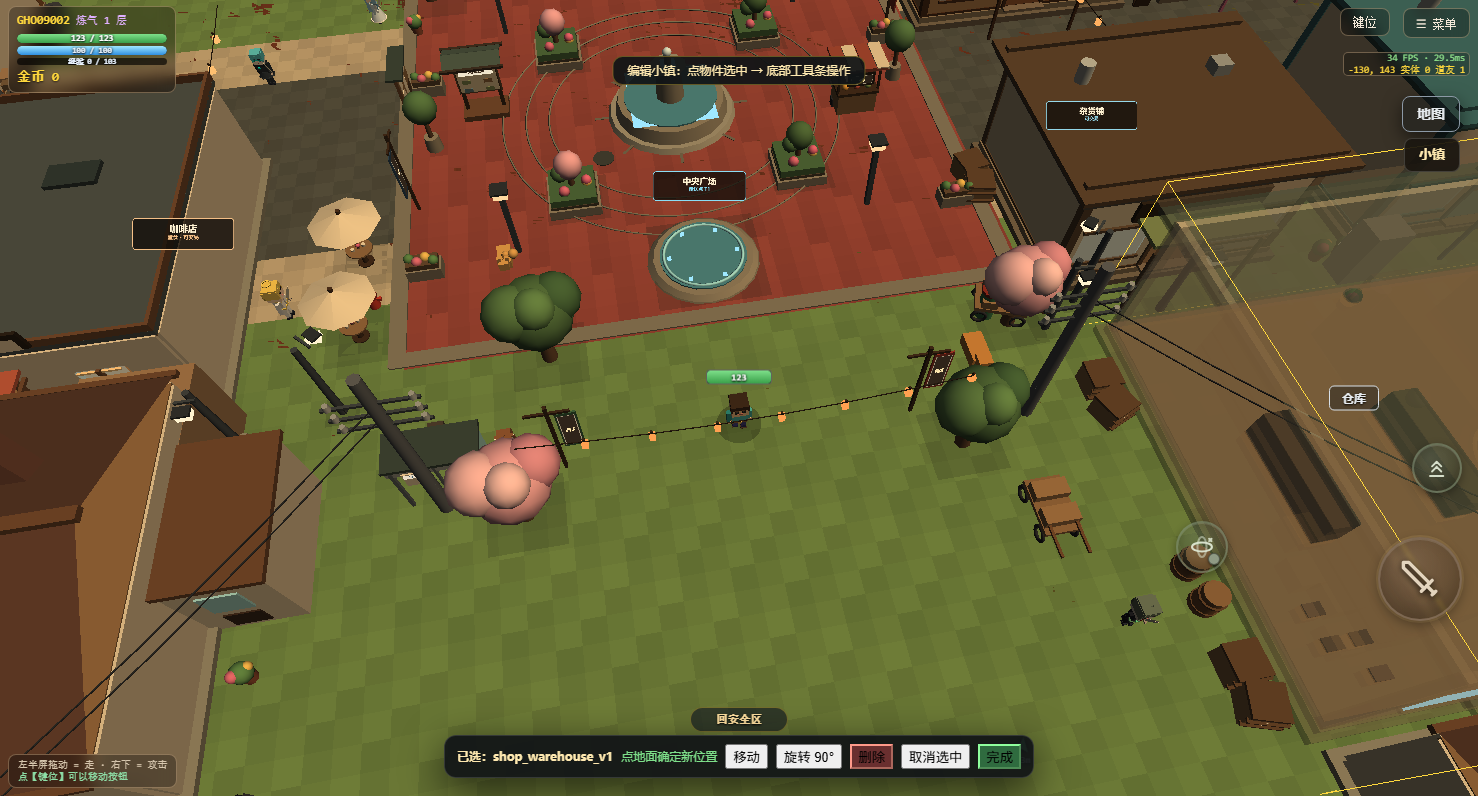
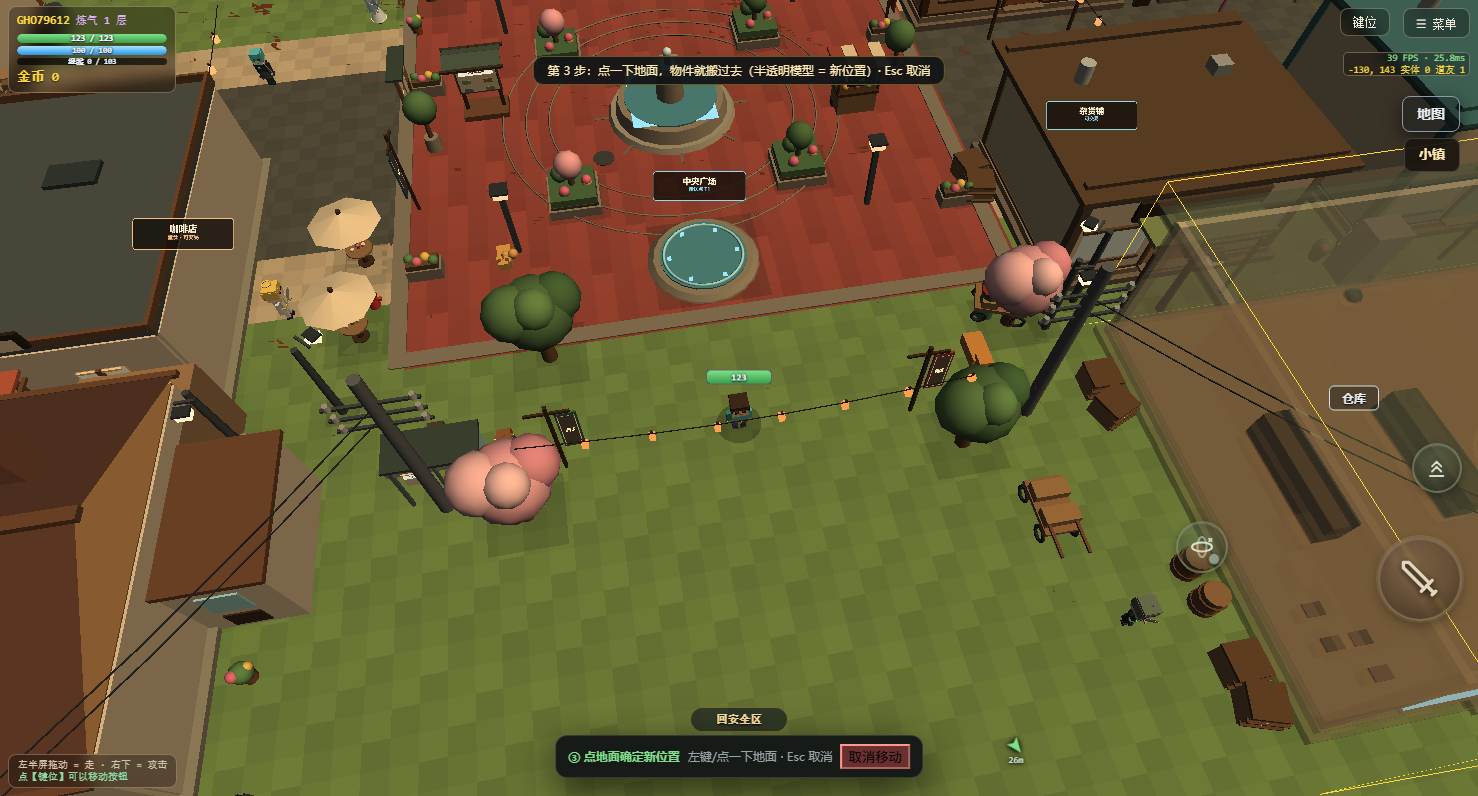
editing now says what to do, step by step

Changed region(s): [[0.2801, 0.9045, 0.7158, 1.0], [0.3424, 0.0603, 0.6536, 0.1206], [0.8714, 0.8744, 1.0, 1.0]]

diff --git a/web/platform/place.js b/web/platform/place.js
@@ -331,18 +331,32 @@
       EDIT.box = null;
     }
   }
+  function editHintText() {
+    if (!EDIT.hint) { return; }
+    var txt;
+    if (EDIT.moving) {
+      txt = '第 3 步：点一下地面，物件就搬过去（半透明模型 = 新位置）· Esc 取消';
+    } else if (EDIT.id != null) {
+      txt = '第 2 步：点底部「移动」，然后点地面 · 也可以直接「旋转 90°」或「删除」';
+    } else {
+      txt = '第 1 步：点场景里的建筑 / 家具（会变黄框）· Esc 退出编辑';
+    }
+    EDIT.hint.textContent = txt;
+  }
+
   function editSelect(id) {
     editClear();
     EDIT.id = id;
     EDIT.moving = false;
-    if (id == null) { editBarRender(); return; }
+    if (id == null) { editBarRender(); editHintText(); return; }
     var e = P.objs[id];
-    if (!e || !e.mesh) { EDIT.id = null; editBarRender(); return; }
+    if (!e || !e.mesh) { EDIT.id = null; editBarRender(); editHintText(); return; }
     try {
       EDIT.box = new THREE.BoxHelper(e.mesh, 0xffd83d);
       (sceneOf() || W().scene).add(EDIT.box);
     } catch (e1) { EDIT.box = null; }
     editBarRender();
+    editHintText();
   }
   function sceneOf() { return (typeof W().scene !== 'undefined') ? W().scene : null; }
   function editBarRender() {
@@ -366,16 +380,22 @@
     }
     EDIT.bar.style.display = 'flex';
     if (EDIT.id == null) {
-      EDIT.bar.innerHTML = '<b style="color:#ffe9b0">编辑小镇</b>' +
-        '<span style="color:#9aa3a8">点场景里的物件选中 · Esc 退出</span>' +
+      EDIT.bar.innerHTML =
+        '<b style="color:#ffe9b0">① 点场景里的物件</b>' +
+        '<span style="color:#9aa3a8">选中后会变黄框 · Esc 退出</span>' +
         '<button data-e="done" style="background:#2f6b3f;border-color:#7ee08a">完成</button>';
       return;
     }
     var e = P.objs[EDIT.id], o = e && e.data;
     var nm = (o && (o.catalog || o.model)) || ('#' + EDIT.id);
-    EDIT.bar.innerHTML = '<b style="color:#ffe9b0">已选：' + nm + '</b>' +
-      (EDIT.moving ? '<span style="color:#7ee08a">点地面确定新位置</span>' : '') +
-      '<button data-e="move">移动</button>' +
+    if (EDIT.moving) {
+      EDIT.bar.innerHTML = '<b style="color:#7ee08a">③ 点地面确定新位置</b>' +
+        '<span style="color:#9aa3a8">左键/点一下地面 · Esc 取消</span>' +
+        '<button data-e="cancelmove" style="background:#6a2f2f;border-color:#ff9a8a">取消移动</button>';
+      return;
+    }
+    EDIT.bar.innerHTML = '<b style="color:#ffe9b0">② 已选：' + nm + '</b>' +
+      '<button data-e="move" style="background:#2f5f8a;border-color:#9fe8ff">移动（点这里）</button>' +
       '<button data-e="rot">旋转 90°</button>' +
       '<button data-e="del" style="background:#6a2f2f;border-color:#ff9a8a">删除</button>' +
       '<button data-e="unsel">取消选中</button>' +
@@ -384,12 +404,19 @@
   function editAct(a) {
     if (a === 'done') { editExit(); return; }
     if (a === 'unsel') { editSelect(null); return; }
+    if (a === 'cancelmove') {
+      EDIT.moving = false;
+      editMoveGhostStop(true);
+      editBarRender();
+      return;
+    }
     if (EDIT.id == null) { return; }
     if (a === 'move') {
       /* ★ 2026-10-22：移动时给一个半透明预览 ✗ 不然看不见会挪到哪 ✓ */
       editMoveGhostStart();
       EDIT.moving = true;
       editBarRender();
+      editHintText();
       return;
     }
     if (a === 'rot') {
@@ -455,7 +482,7 @@
       document.body.appendChild(EDIT.hint);
     }
     EDIT.hint.style.display = 'block';
-    EDIT.hint.textContent = '编辑小镇：点物件选中 → 底部工具条操作';
+    editHintText();
     editSelect(null);
   }
   function editExit() {
@@ -498,6 +525,11 @@
     if (id != null) {
       editSelect(id);
       try { e.stopPropagation(); } catch (e2) { }
+      return;
+    }
+    /* 点空地：如果选着东西，就当作「取消选中」（避免误触移动） */
+    if (EDIT.id != null && !EDIT.moving) {
+      editSelect(null);
     }
   }, true);
 

diff --git a/web/index.html b/web/index.html
@@ -1412,7 +1412,7 @@ body[data-theme="glass"] #setBody .slot [style*="color:#fff"]{color:#ffffff!impo
 <div id="sitPrompt">按 E / 点击交互按钮 坐下</div>
 <div id="tpPrompt">按 E / 点击交互按钮 传送</div>
 <button id="mapBtn" title="小镇地图（M）">地图</button>
-<button id="townBtn" title="我的小镇">小镇</button>
+<button id="townBtn" title="小镇：建造 / 移动 / 权限">小镇 · 建造</button>
 <div id="mapPanel"><div id="mapBox"><div id="mapHead"><div id="mapTitle">新手小镇 · 全景地图</div><div id="mapLegend">B 建筑 · H 住宅 · S 商店 · R 道路 · T 传送</div><div id="mapFit"><button class="mapV" onclick="mapFit('town')">小镇</button><button class="mapV" onclick="mapFit('all')">全图</button></div><div id="mapZoom"><button class="mapZ" onclick="mapZoom(-1)">−</button><button class="mapZ" onclick="mapZoom(1)">＋</button></div><div id="mapClose">✕</div></div><div id="mapFilterBar"><button class="mapF on" data-f="all" onclick="mapFilter('all')">全部</button><button class="mapF" data-f="center" onclick="mapFilter('center')">中心</button><button class="mapF" data-f="villa" onclick="mapFilter('villa')">别墅</button><button class="mapF" data-f="yard" onclick="mapFilter('yard')">小院</button><button class="mapF" data-f="flat" onclick="mapFilter('flat')">小楼</button><button class="mapF" data-f="shop" onclick="mapFilter('shop')">商店</button><button class="mapF" data-f="road" onclick="mapFilter('road')">道路</button></div><div id="mapBody"><canvas id="townMapCanvas"></canvas><div id="mapSide"><div class="mapSideTitle">点击地图上的编号</div><div id="mapInfo">点击建筑看名称、编号、坐标。<br><span class="mapHint">手机端默认隐藏密集文字；用筛选和下方编号列表定位。</span></div><button id="mapCopy" onclick="mapCopy()">复制坐标</button><button id="mapListBtn" onclick="mapListToggle()">展开编号列表</button><div class="mapSideTitle">全部编号</div><div id="mapList"></div><div class="mapHint">编号即定位编号；道路带名称。M 键开关地图。</div></div></div></div></div>
 <div id="shopPrompt">按 E / 点击交互按钮 购买</div>
 <div id="orderPrompt">按 E / 点击交互按钮 点单</div>

diff --git a/web/platform/town_ui.js b/web/platform/town_ui.js
@@ -90,10 +90,15 @@
     return h;
   }
   function editHTML(t) {
-    return '<div class="townHint">编辑模式：点场景里的物件选中，然后用底部的工具条' +
-      '「移动 / 旋转 90° / 删除」。Esc 退出。</div>' +
-      '<div class="row"><button onclick="townEdit()">进入编辑模式</button></div>' +
-      '<div class="townHint">删除会连同该建筑自带的家具一起删除，不退款。</div>';
+    return '<div class="townHint"><b>怎么改已经放好的东西：</b></div>' +
+      '<div class="townHint">① 点下面的按钮进入编辑模式；<br>' +
+      '② 点场景里的建筑 / 家具 → 会套一个黄框；<br>' +
+      '③ 点底部工具条的「移动」→ 再点一下地面，就搬过去了<br>' +
+      '　（搬的时候有半透明模型预览；按 Esc 可以取消）</div>' +
+      '<div class="row"><button onclick="townEdit()" style="background:#2f5f8a;border-color:#9fe8ff">' +
+      '进入编辑模式</button></div>' +
+      '<div class="townHint">想换朝向：选中后点「旋转 90°」；不要了：点「删除」' +
+      '（连同建筑自带家具一起删，不退款）。</div>';
   }
   function permHTML(t) {
     if (!t) {

diff --git a/tools/test_place_ghost_ui.py b/tools/test_place_ghost_ui.py
@@ -134,12 +134,26 @@ async def main_async(token):
             # ② 编辑移动预览
             obj_id = await c.ev("return (window.MY_OBJECTS||[]).filter(function(o){"
                                 "return !o.parent;})[0].id;")
-            await c.ev('PlaceMode.startEdit(); PlaceMode.selectById(%d); return 1;' % obj_id)
+            await c.ev('PlaceMode.startEdit(); return 1;')
             await asyncio.sleep(0.3)
+            h1 = await c.ev("return (document.getElementById('editHint')||{}).textContent||'';")
+            print('  hint step1:', h1)
+            assert '第 1 步' in h1, 'guidance step1 missing'
+            await c.ev('PlaceMode.selectById(%d); return 1;' % obj_id)
+            await asyncio.sleep(0.3)
+            h2 = await c.ev("return (document.getElementById('editHint')||{}).textContent||'';")
+            bar2 = await c.ev("return (document.getElementById('editBar')||{}).textContent||'';")
+            print('  hint step2:', h2)
+            assert '第 2 步' in h2 and '移动' in bar2, 'guidance step2 missing'
             await c.ev("var bs=[].slice.call(document.querySelectorAll('#editBar button'));"
                        "var b=bs.filter(function(x){return x.textContent.indexOf('移动')>=0;})[0];"
                        "if(b){b.click();} return 1;")
             await asyncio.sleep(0.4)
+            h3 = await c.ev("return (document.getElementById('editHint')||{}).textContent||'';")
+            print('  hint step3:', h3)
+            assert '第 3 步' in h3, 'guidance step3 missing'
+            cancelBtn = await c.ev("return !!document.querySelector('#editBar button[data-e=\"cancelmove\"]');")
+            assert cancelBtn, 'cancel move button missing'
             st2 = await c.ev('return PlaceMode.previewState();')
             print('  move preview:', st2)
             assert st2['moving'] and st2['moveGhost'], 'no move ghost'

diff --git a/docs/交接-小镇v4.md b/docs/交接-小镇v4.md
@@ -418,3 +418,13 @@ asyncio.run(main())
   点地面确认后恢复原物件并发送 `move_object`；`Esc` 取消 → 预览消失、原物件恢复。
 - 自测：`tools/test_place_ghost_ui.py`（放置 opacity、移动 opacity、原物件隐藏、Esc 恢复），
   截图 `docs/shots/ghost-preview.png`。
+
+
+#### 怎么操作（写给玩家看的，也贴在面板里）
+
+1. 点右上角 **「小镇 · 建造」** → 选导航页；
+2. **放置**：选一项 → 点地面 → 完成（有半透明预览 + 描边，R 旋转）；
+3. **编辑**：点「进入编辑模式」→ 点场景里的物件（变黄框）→
+   点底部「移动」→ 点地面（半透明模型跟随，Esc 取消）；
+   「旋转 90°」改朝向，「删除」移除（含自带家具，不退款）；
+4. 屏幕上方会按步骤显示「第 1 / 2 / 3 步」提示，工具条按钮也按步骤高亮。
